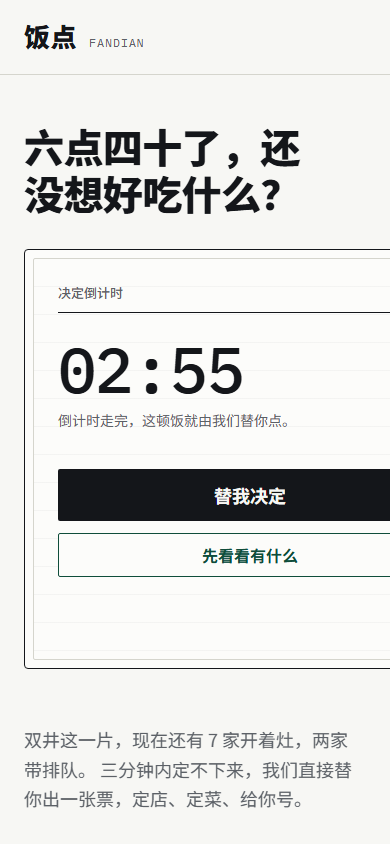
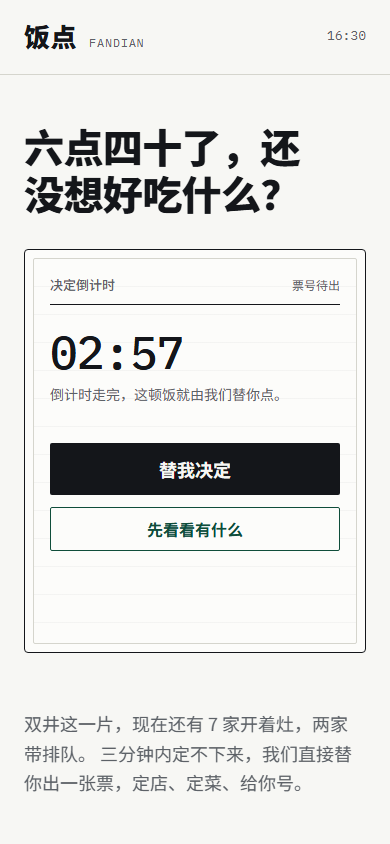
修正实测结论并补齐真视口核验工具
发现并修正截图管线的真实缺陷：shot.ps1 请求 390 宽时实际以 500 CSS px 布局再缩放，此前所有「390」截图都不是真窄视口。新增 shot2.ps1（定宽 iframe 取得真实布局视口）与 measure.ps1（免截图读取真实计算布局：视口宽度、水平溢出及肇事元素、最小正文、最小命中区）。风控台冷启动测试的结论据实测重写，并用真 390 重新核验三个页面。

diff --git a/skill-showcase/README.md b/skill-showcase/README.md
@@ -21,17 +21,20 @@ one direction, not four — the skill's Section 3 exists to prevent exactly that
 
 ## Verified results
 
-Measured in-browser at the stated viewports:
+Measured in-browser at the stated viewports. The `390×844` column figures were re-measured at a genuine
+390px layout viewport after the screenshot-pipeline defect described under the cold transfer test.
 
 | Check | a-expressive | b-operational | c-content-led |
 | --- | --- | --- | --- |
 | Desktop 1440×900 | [PNG](shots/a-expressive-desktop-1440x900.png) | [PNG](shots/b-operational-desktop-1440x900.png) | [PNG](shots/c-content-led-desktop-1440x900.png) |
 | Mobile 390×844 | [PNG](shots/a-expressive-mobile-390x844.png) | [PNG](shots/b-operational-mobile-390x844.png) | [PNG](shots/c-content-led-mobile-390x844.png) |
 | Body measure (desktop) | — | — | 504px, 18px/35.1px, ~23.2 CJK chars/line |
-| Body measure (mobile) | — | — | 350px, 17px, ~19.3 CJK chars/line |
+| Horizontal overflow @390 | 0px | 0px | 0px |
+| Document `scrollWidth` @390 | = viewport | = viewport | `390` |
+| Smallest rendered text @390 | — | — | 14px |
+| Smallest hit dimension @390 | ≥44px | ≥44px | 44px |
 | `transition: all` occurrences | 0 | 0 | 0 |
 | Focus ring | 2px + 2px offset | 2px + 2px offset | 2px `rgb(122,36,32)` + 2px offset |
-| Hit areas ≥44px | yes | yes | yes |
 
 ## Defects found by looking at renders
 
@@ -56,15 +59,101 @@ opening the captured image or probing the live DOM:
    build used `#F4F2ED` — two hex digits away, visually identical — while explicitly reporting that
    `#F4F1EA` had been avoided. → became the skill's **"Ban the property, not the hex string."**
 
+## Cold transfer test
+
+The three pages above were built while the skill was being written, by agents that already knew where the
+work was heading. That is not a fair test of whether the skill *transfers*. So two further pages were
+commissioned from agents that were given only `SKILL.md` and a brief, and were explicitly forbidden from
+reading this directory:
+
+| Test | Brief | Result |
+| --- | --- | --- |
+| Content-led | Landing page for 夜读, a personal reading journal. A brief that strongly invites the banned warm-editorial cluster. | **Passed.** Cool paper `#EDF1EF`, bottle-green accent `#0E5C4C`, 20 distinct hex values, **zero banned-color hits**. |
+| Operational | Main console for 风控台, a fintech risk-analyst tool with a queue, a detail panel, and analyst actions. | **Desktop strong, narrow width failed.** 39 distinct hex values, zero banned-color hits, genuinely dense and product-specific at `1440×900` — but see below. |
+
+This is the most useful evidence in this directory, because both tests found something:
+
+**The ban list works.** Neither build reached for warm cream paper, terracotta, acid dark, or any other
+named default — not even the one whose brief made warm-editorial the natural choice. Naming specific
+refusals diverted both builds.
+
+**The ban list can still be satisfied while one cluster member survives.** The 夜读 build took the
+high-contrast serif display face (Songti SC) from the warm-editorial cluster while dropping the warm paper
+and the terracotta accent. On cool paper with a green accent that is a defensible literary direction, not
+the banned cluster — but it shows the cluster is composable, which is why Section 2 states the pattern
+rather than the hex.
+
+**A mobile strategy can exist in the CSS and be unreachable in practice.** The 风控台 console fails at
+narrow width, and it fails in a more interesting way than "nobody wrote a breakpoint". It has a deliberate
+mobile design: a `.rail-sel` filter dropdown, a `.filtersheet` that becomes an overlay, and a `.detail`
+full-screen drill-in with a back button and Escape handling. Three separate defects stop it working, and
+each was invisible from the source alone:
+
+1. **The mobile trigger is never rendered.** `.rail-sel` is `display: none` and no rule or script ever
+   enables it. Meanwhile the media query `(max-width: 1429px) and (max-height: 1000px)` makes
+   `.filtersheet` `position: absolute; inset: 0`, so at narrow width the filter sheet sits permanently on
+   top of the workspace. Measured at a true `390×844`: `.filtersheet` is `390×810` covering the shell,
+   `.rail-sel` is `0×0`, and the alert queue — the primary work surface — is `300px` wide behind it.
+2. **The container queries that should recompose the grid are self-referential.** Two rules read
+   `@container work (max-width: 1079px)` and `@container work (min-width: 1430px)`, but `container-name:
+   work` is declared *on* `.workspace` and both rules target `.workspace` itself. A container query cannot
+   style its own container, so neither rule ever applies and `grid-template-columns` stays at the base
+   `300px minmax(0, 1fr)` — `300px 90px` in a `390px` viewport.
+3. **There is horizontal overflow.** `document.scrollWidth` is `414` against a `390` viewport. The
+   offending elements are the appbar's `推送失败` tally button (`left=394 right=414`) and a `<b>` inside it.
+   The same element is the smallest hit target on the page at `20px`.
+
+Nothing in a build log, a type check, or a wide screenshot reveals any of this. Only rendering at a real
+narrow width and measuring the result does.
+
+**The screenshot tool was lying about the viewport.** While investigating the above, the captures were
+checked against what the page thought its own width was, and the answer was `500`, not `390`. Headless
+Chrome clamps an OS window to a minimum width, so `--window-size=390,844` lays the page out at `500` CSS px
+and then scales the capture down to a 390px PNG. Every "390×844" screenshot in this repository before that
+discovery was rendered at `500` CSS px, so no narrow-width media query below 500px had ever actually run.
+The fix is `shot2.ps1`, which renders the page inside a fixed-width iframe — an iframe gets a true layout
+viewport of its own — and crops the result; it was verified against a page that reports `innerWidth` and
+asserts that a `max-width: 400px` query matched. All narrow screenshots here were re-captured with it, and
+the three pages above were re-inspected at a genuine `390×844`. They pass.
+
+That is the same failure the skill warns about, one level up: the artifact existed, it was named correctly,
+and it was not what it claimed to be.
+
+**What the tests changed in the skill.** Section 8 gained three rules from this round — *"A narrow
+screenshot is not proof of a narrow layout"*, *"A container query cannot style its own container"*, and
+*"An overlay needs a trigger that is actually rendered"* — plus the Section 5 requirement to name which
+surface owns the phone viewport and the Product Interface Reference's instruction to treat the narrow
+master-detail case as a composition problem. The Section 2 ban list also gained pill-shaped buttons for
+ordinary actions, after the 夜读 landing page used them freely.
+
 ## Reproducing the screenshots
 
 ```powershell
-pwsh -File shot.ps1 -Html a-expressive\index.html -Out shots\a.png -Width 1440 -Height 900
-pwsh -File shot.ps1 -Html a-expressive\index.html -Out shots\a-mobile.png -Width 390 -Height 844
+# desktop: window width is above the clamp, either script is fine
+pwsh -File shot2.ps1 -Html a-expressive\index.html -Out shots\a-desktop.png -Width 1440 -Height 900
+
+# narrow: MUST use shot2.ps1, or the page is laid out at the clamped width instead
+pwsh -File shot2.ps1 -Html a-expressive\index.html -Out shots\a-mobile.png -Width 390 -Height 844
 ```
 
-`shot.ps1` drives headless Chrome or Edge directly (`--headless=new`, fixed device scale, virtual time
-budget) so no browser-automation dependency is needed.
+Both scripts drive headless Chrome or Edge directly (`--headless=new`, fixed device scale, virtual time
+budget) so no browser-automation dependency is needed. Use `shot2.ps1` for anything narrower than about
+`520px`: it embeds the page in a fixed-width iframe, which gets its own true layout viewport, and crops the
+capture to that region. `shot.ps1` remains useful for wide viewports and as the simpler reference
+implementation.
+
+`measure.ps1` answers the question a screenshot cannot: what did the browser actually lay out? It renders
+the page at a true fixed viewport width and reports `window.innerWidth`, horizontal overflow and the
+elements causing it, the computed box of every major region, the smallest rendered text, the smallest
+interactive dimension, and whether any element has an active `transition: all` — without producing or
+reading an image.
+
+```powershell
+pwsh -File measure.ps1 -Html c-content-led\index.html -Width 390 -Height 844
+```
+
+Always confirm `VIEWPORT` in its output matches the width you asked for. If it does not, your screenshot
+tool is lying to you.
 
 ## Marketplace copy
 
